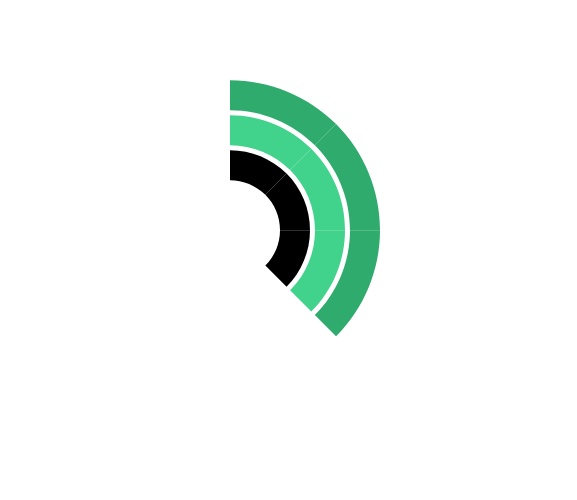
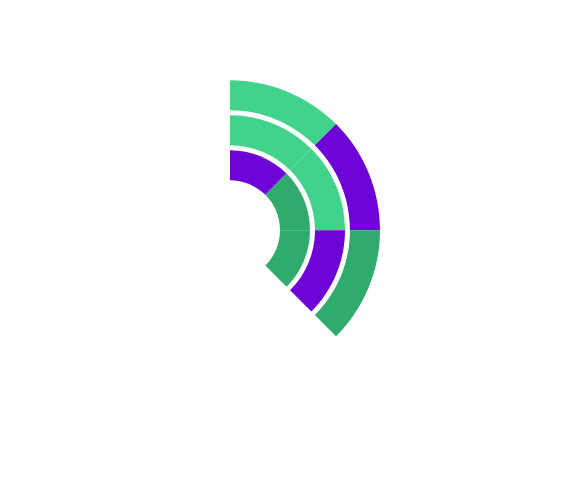
feat: add random number generator to select color from array

Changed region(s): [[0.3744, 0.15, 0.6551, 0.63]]

diff --git a/components/Graph/spiderchart.tsx b/components/Graph/spiderchart.tsx
@@ -19,6 +19,12 @@ const SpiderChart = (props) => {
     3: '#6D03D7'
   }
 
+  function between(min, max){
+    return Math.floor(
+      Math.random() * (max-min) + min
+    )
+  }
+
   useEffect(() => {
     for (let j = 1; j<number_of_segments+1; j++){
       for (let i = 0; i<number_of_levels; i++){
@@ -31,7 +37,7 @@ const SpiderChart = (props) => {
         d3.select(chartRef.current)
           .append('path')
           .attr("d", arc1)
-          .attr('fill', colorArray[i])
+          .attr('fill', colorArray[between(1,4)])
       }
     }
     /* const arc2 = d3.arc()
